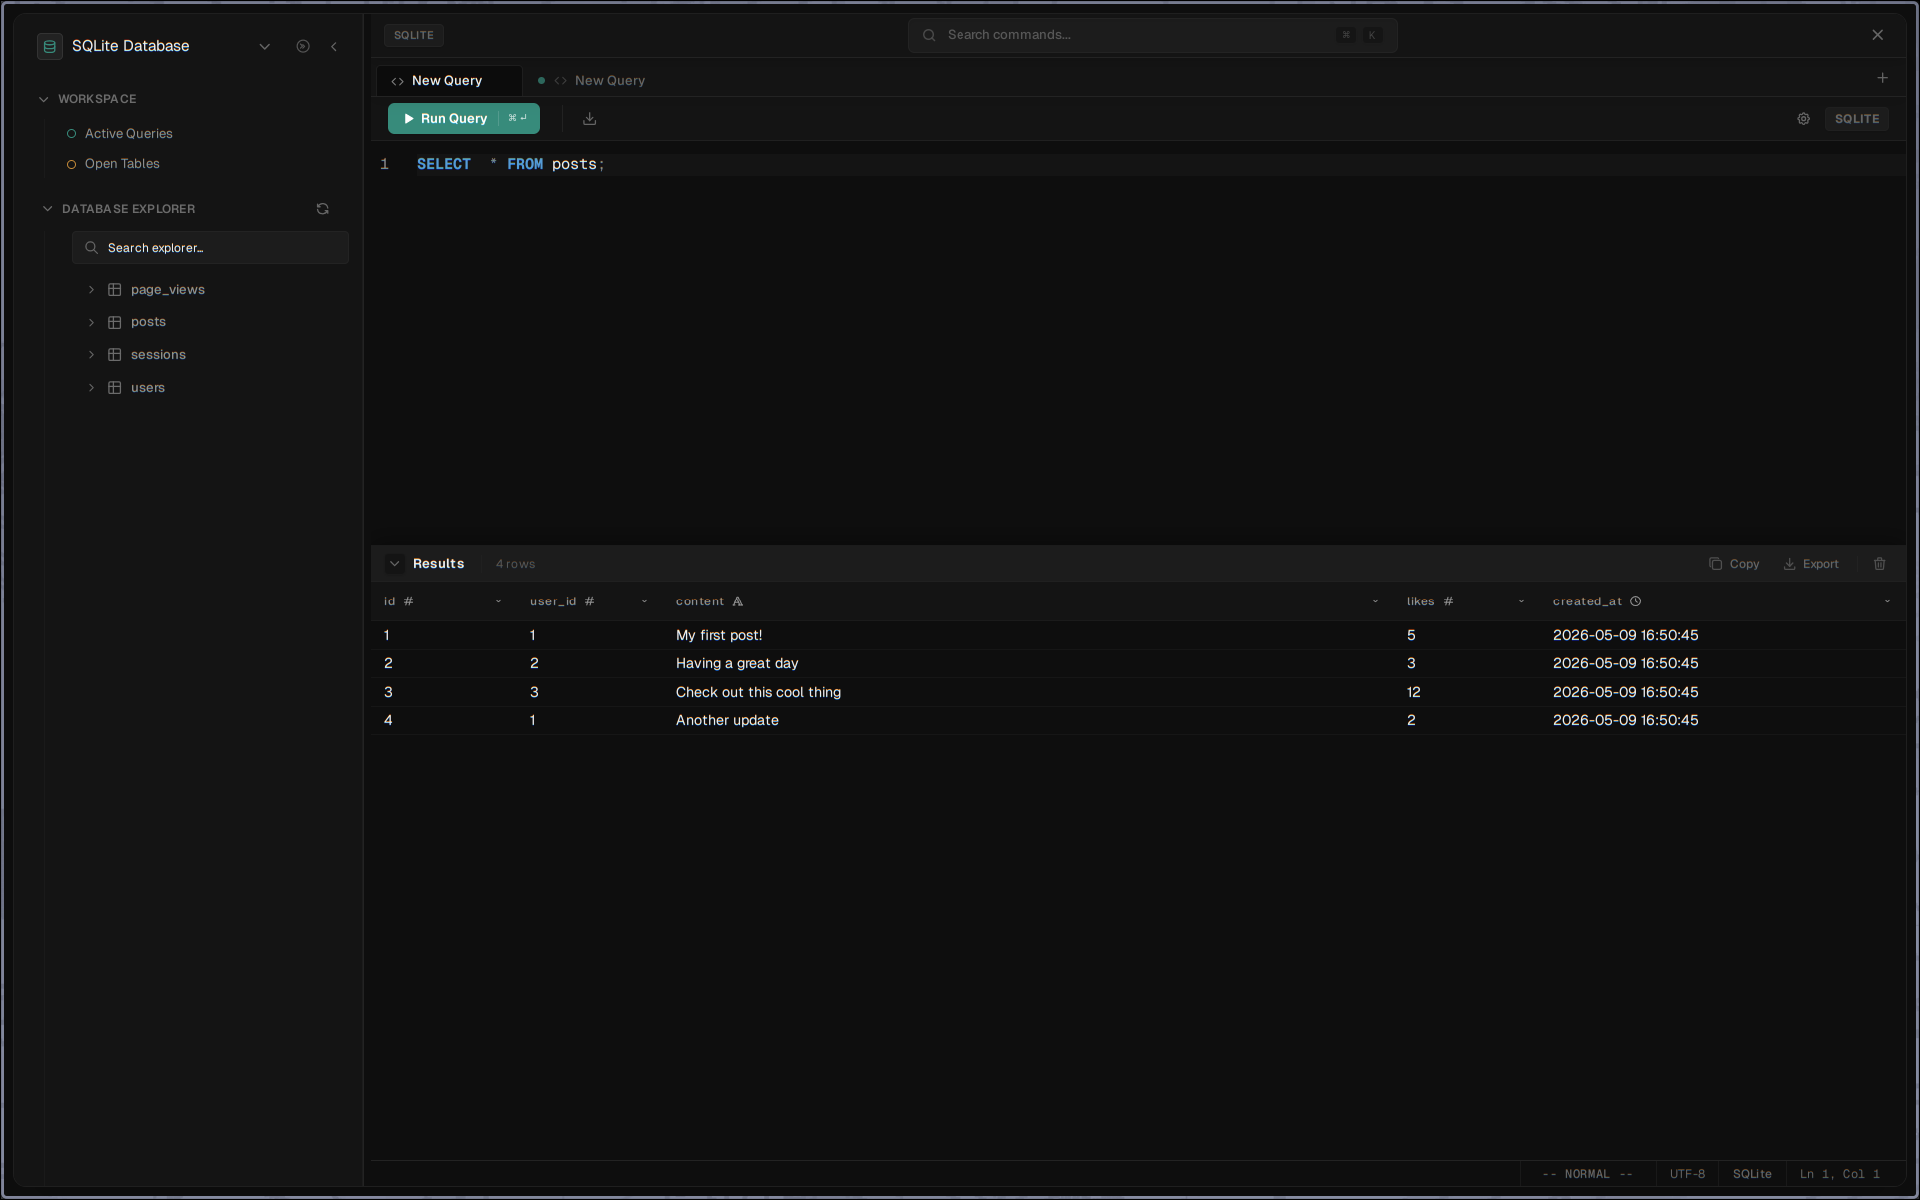
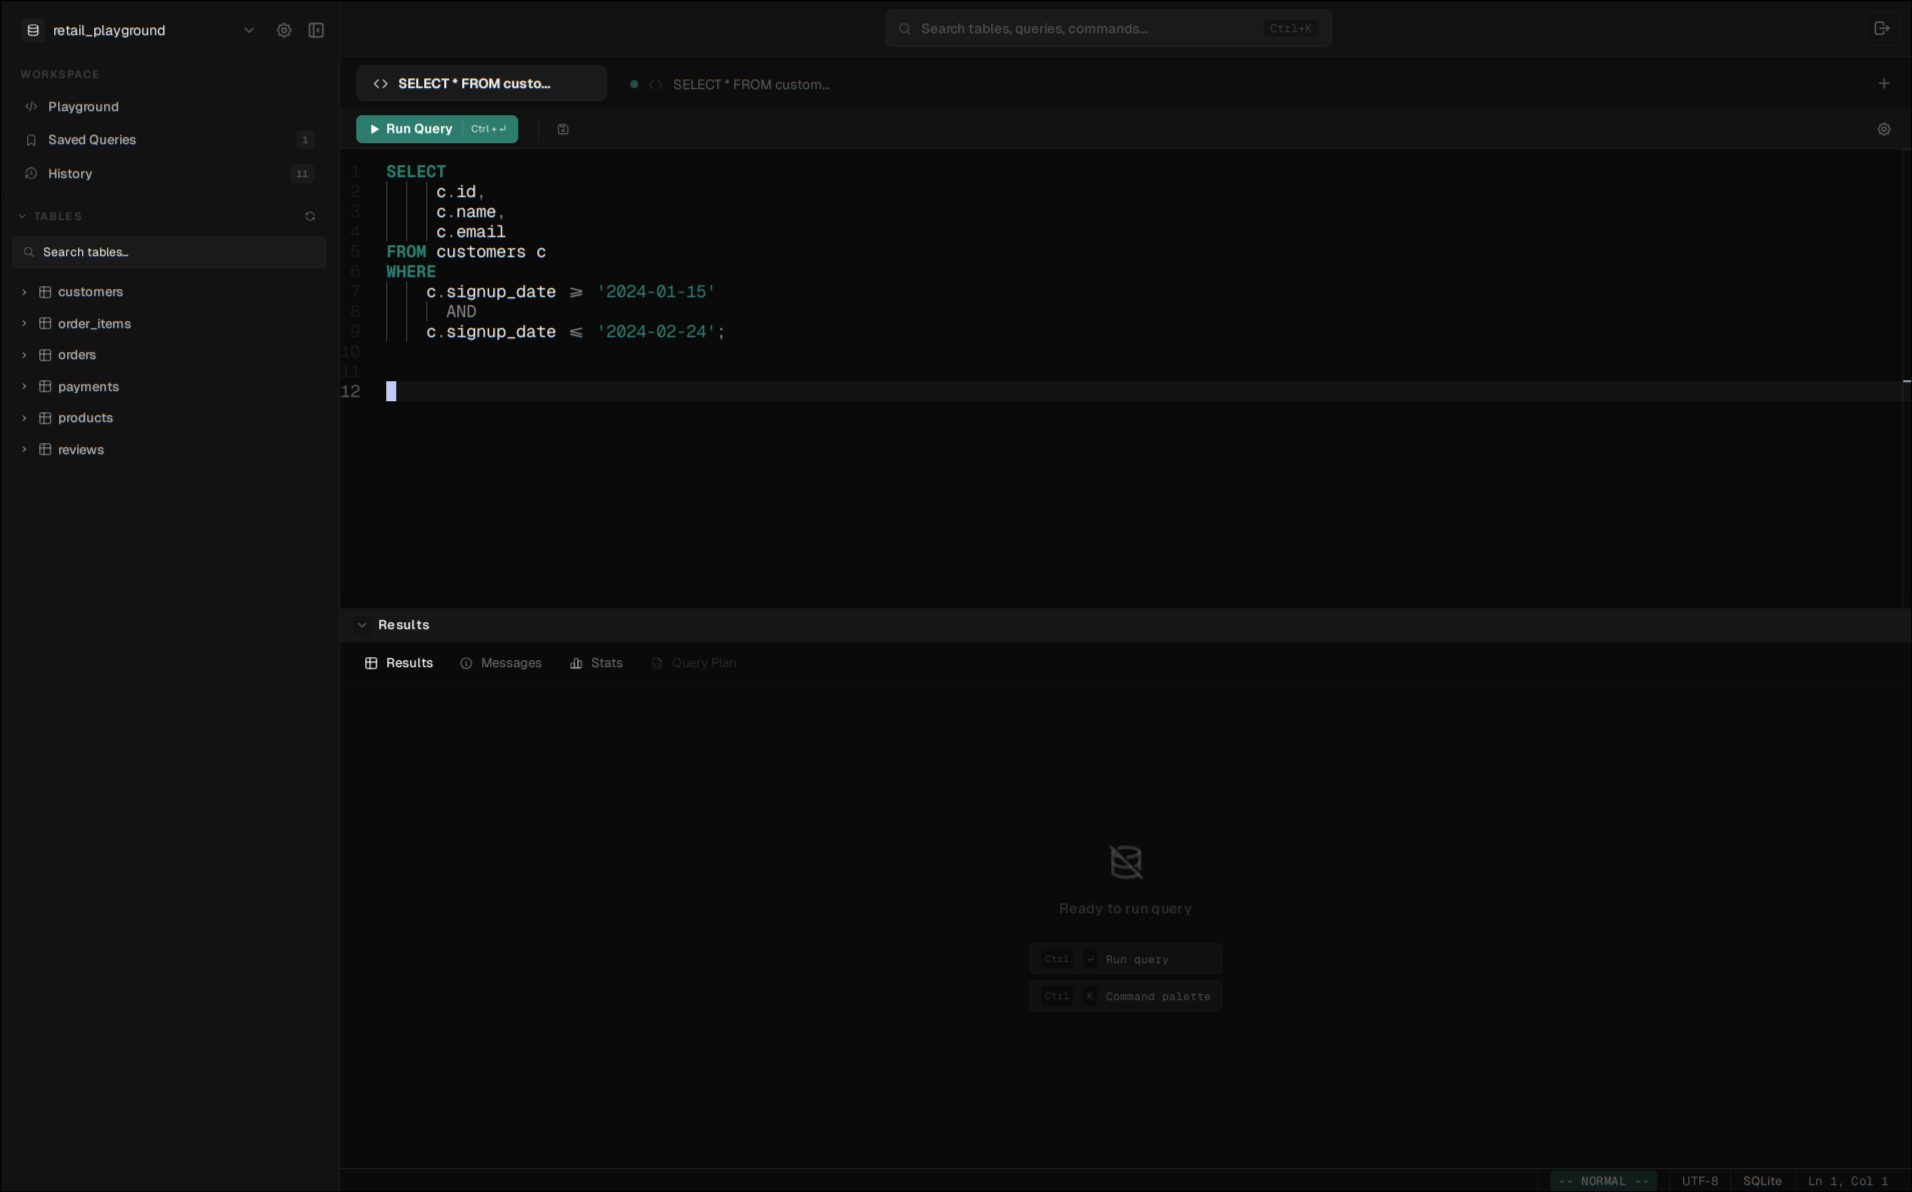
refactor(web):landing_page_revamp

diff --git a/apps/web/src/components/hero.tsx b/apps/web/src/components/hero.tsx
@@ -1,3 +1,4 @@
+import Image from "next/image"
 import { cn } from "@/lib/utils"
 import { Button } from "@/components/ui/button"
 import { ArrowRightIcon } from "lucide-react"
@@ -9,10 +10,6 @@ export function HeroSection() {
    return (
       <section className="relative">
          <div className="relative flex flex-col items-center justify-center gap-5 px-4 py-12 md:px-4 md:py-24 lg:py-28">
-            <DecorIcon className="size-4" position="bottom-left" />
-            <DecorIcon className="size-4" position="bottom-right" />
-            <FullWidthDivider position="bottom" />
-
             <a
                className={cn(
                   "group mx-auto flex w-fit items-center gap-3 rounded-sm border border-neutral-50/10 bg-card p-1 shadow",
@@ -40,8 +37,8 @@ export function HeroSection() {
                )}
             >
                Ephemeral SQL Environments <br className="hidden md:block" />
-               Now{" "}
-               <span className="bg-linear-to-r from-blue-500 to-[oklch(62.3%_0.214_259.815/.6)] bg-clip-text text-transparent">
+               Now
+               <span className="bg-linear-to-r from-blue-500 to- bg-clip-text text-transparent">
                   Open Source
                </span>
             </h1>
@@ -67,6 +64,25 @@ export function HeroSection() {
                   Get app <ArrowRightIcon data-icon="inline-end" />
                </Button>
             </div>
+
+            <FullWidthDivider position="top" />
+            {/* Dashboard Preview Container */}
+            <div className="relative">
+               <div className="overflow-hidden rounded-sm border border-white/5 bg-zinc-950/50 flex">
+                  <Image
+                     src="/ss.png"
+                     height={400}
+                     width={1200}
+                     alt="Sqlose Dashboard Preview"
+                     className="w-full h-auto transition-transform duration-700 group-hover:scale-[1.01]"
+                  />
+               </div>
+            </div>
+
+            {/* Bottom Dividers moved below screenshot */}
+            <DecorIcon className="size-4" position="bottom-left" />
+            <DecorIcon className="size-4" position="bottom-right" />
+            <FullWidthDivider position="bottom" />
          </div>
       </section>
    )